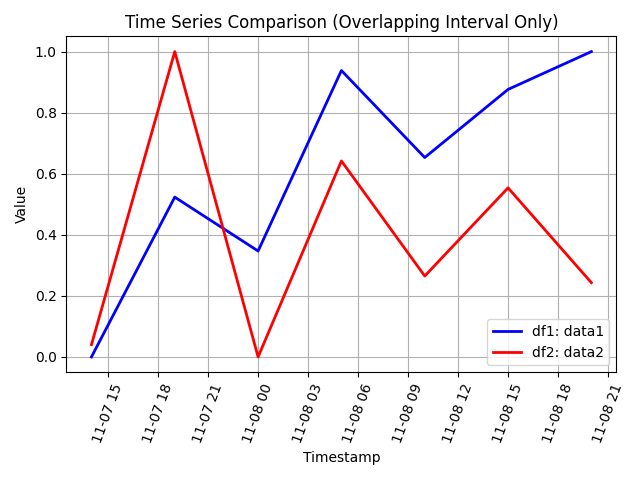
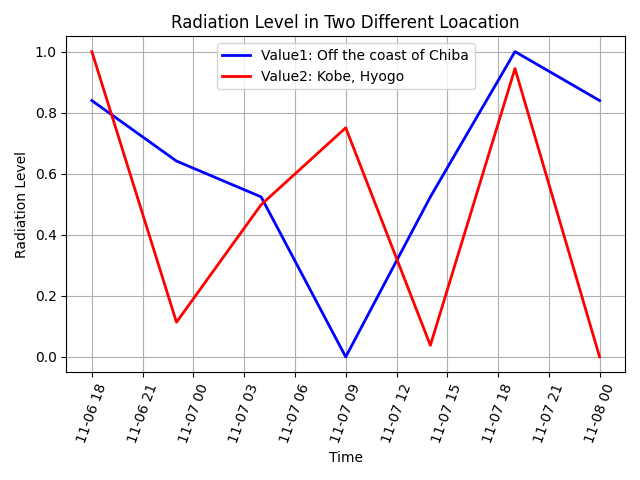
update

diff --git a/modules/utils/visualizer.py b/modules/utils/visualizer.py
@@ -59,7 +59,8 @@ class Visualizer:
         plt.plot(
             self.df1[col_timestamp_index],
             self.df1[value_index1],
-            label=f"df1: {value_index1}",
+            # label=f"Data1: {value_index1}",
+            label = f"Value1: Off the coast of Chiba",
             color="blue",
             linewidth=2
         )
@@ -67,16 +68,17 @@ class Visualizer:
         plt.plot(
             self.df2[col_timestamp_index],
             self.df2[value_index2],
-            label=f"df2: {value_index2}",
+            # label=f"Data2: {value_index2}",
+            label=f"Value2: Kobe, Hyogo",
             color="red",
             linewidth=2
         )
 
-        plt.title("Time Series Comparison (Overlapping Interval Only)")
-        plt.xlabel("Timestamp")
+        plt.title("Radiation Level in Two Different Loacation")
+        plt.xlabel("Time")
         plt.xticks(rotation=70)
         plt.tight_layout()
-        plt.ylabel("Value")
+        plt.ylabel("Radiation Level (CPM)")
         plt.grid(True)
         plt.legend(loc="best")
         plt.tight_layout()

diff --git a/modules/utils/compute_distance_happiness.py b/modules/utils/compute_distance_happiness.py
@@ -1,0 +1,25 @@
+import pandas as pd
+import numpy as np
+
+# ===== 設定 =====
+csv_path = "df_random_7_1.csv"     # 入力CSV
+x_col = "valence"                # x値の列名
+y_col = "arousal"                # y値の列名
+output_csv = "output.csv"  # 出力CSV（上書き可）
+
+# ===== CSV読み込み =====
+df = pd.read_csv(csv_path)
+
+# ===== 最大値の取得 =====
+x_max = df[x_col].max()
+y_max = df[y_col].max()
+
+# ===== 距離スカラーの計算 =====
+# max点 (x_max, y_max) からのユークリッド距離
+df["distance_from_max"] = np.sqrt(
+    (df[x_col] - x_max) ** 2 +
+    (df[y_col] - y_max) ** 2
+)
+
+# ===== CSV出力 =====
+df.to_csv(output_csv, index=False)

diff --git a/modules/crossfade_audio_files.py b/modules/crossfade_audio_files.py
@@ -47,5 +47,6 @@ class CrossfadeAudioFiles:
 
 
 if __name__ == "__main__":
-    fader = CrossfadeAudioFiles()
-    fader.crossfade_audio_files(input_path="./data/output/generated_music_suno/final/10")
+   for i in range(10, 11): 
+        fader = CrossfadeAudioFiles()
+        fader.crossfade_audio_files(input_path=f"./data/output/generated_music_suno/stimuli{i}")

diff --git a/sample.py b/sample.py
@@ -129,6 +129,7 @@ def main():
     print(emotion_list)
     print(len(emotion_list))
 
+    return 0
     
     # ========================================
     # create chords and melody from specified valence-arousal coordinates
